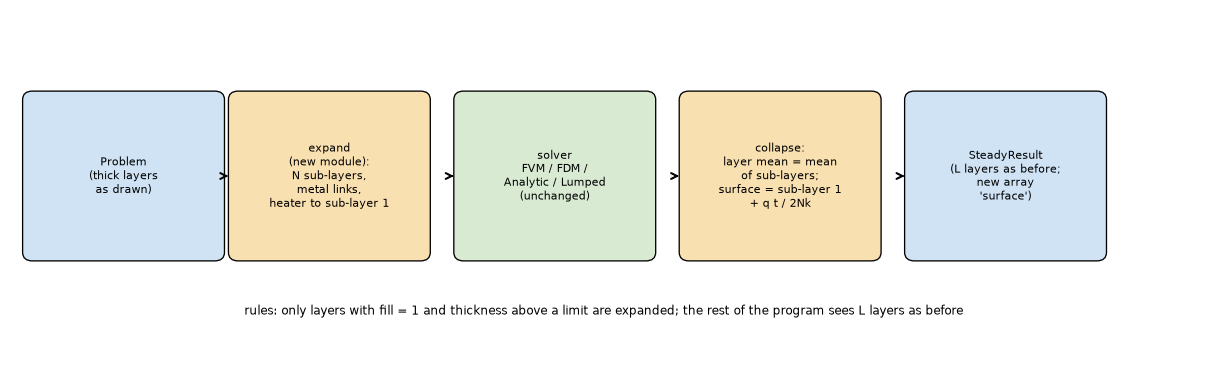
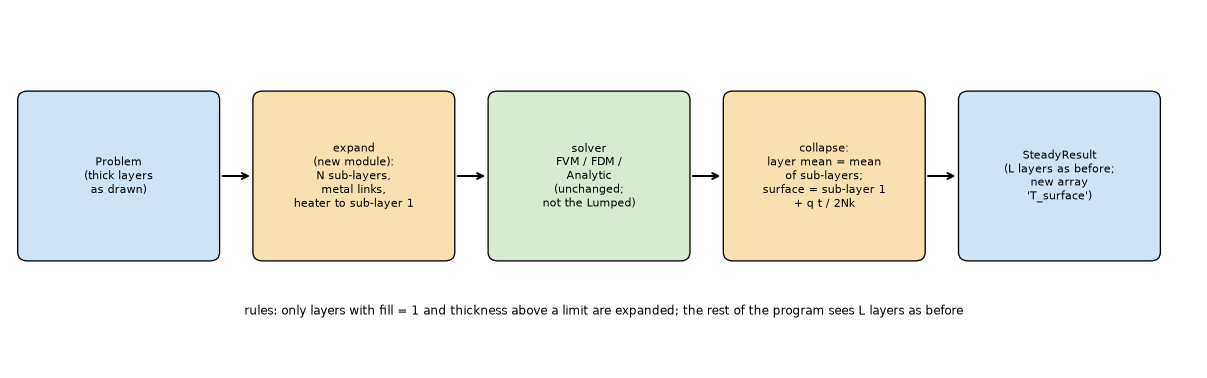
Fix the sweep legend and drop the Lumped from the sub-layer diagram
The legend of figure 4 explained only one conductivity; figure 6 drew the
Lumped among the solvers of option B, which the recommendation excludes.

Claude-Session: https://claude.ai/code/session_01XgeLDd5tWg6CEJL9TQpCpU

Changed region(s): [[0.1533, 0.2328, 0.9809, 0.6984], [0.0, 0.2328, 0.0307, 0.6984], [0.0613, 0.4074, 0.1226, 0.5238]]

diff --git a/research/through-thickness-readout/scripts/make_figures.py b/research/through-thickness-readout/scripts/make_figures.py
@@ -70,7 +70,7 @@ def fig_04():
         for a, col in ((4.0, "#1f77b4"), (10.0, "#2ca02c"), (20.0, "#d62728")):
             r = [x for x in rows if x["k"] == k and x["a_mm"] == a]
             ta = [x["t_mm"] / a for x in r]
-            a1.plot(ta, [x["d3"] / x["bound"] for x in r], mk + "-", color=col, ms=4, lw=0.7, label=f"k {k:.0f}, a {a:.0f} mm" if k == 385.0 else None)
+            a1.plot(ta, [x["d3"] / x["bound"] for x in r], mk + "-", color=col, ms=4, lw=0.7, label=None)
             a2.plot(ta, [x["parabola"] / x["d3"] for x in r], mk + "-", color=col, ms=4, lw=0.7)
     a1.axhline(2.0 / 3.0, color="gray", ls=":")
     a1.text(0.0012, 0.68, "2/3: heat spreads inside the plate", fontsize=7)
@@ -80,14 +80,18 @@ def fig_04():
     a1.set_xlabel("t / a  (thickness over source side)")
     a1.set_ylabel("3D (surface - column mean) / bound q'' t / 2k")
     a1.set_ylim(0, 1.15)
-    a1.legend(fontsize=7, title="colour = source side; marker = k", title_fontsize=7)
+    # Proxy handles: one entry per source side (colour) and one per conductivity (marker), so that every marker of the plot is explained
+    from matplotlib.lines import Line2D
+    handles = [Line2D([], [], color=c, lw=1.5, label=f"a {a:.0f} mm") for a, c in ((4.0, "#1f77b4"), (10.0, "#2ca02c"), (20.0, "#d62728"))]
+    handles += [Line2D([], [], color="gray", marker=m, ls="none", label=f"k {k:.0f} W/mK") for k, m in ((385.0, "o"), (150.0, "s"), (50.0, "^"))]
+    a1.legend(handles=handles, fontsize=7, title="colour = source side; marker = k", title_fontsize=7, ncol=2)
     a2.axhline(1.0, color="k", lw=0.8)
     a2.axvline(0.5, color="gray", ls=":")
     a2.text(0.52, 2.5, "t/a = 0.5", fontsize=7)
     a2.set_xscale("log")
     a2.set_xlabel("t / a")
     a2.set_ylabel("parabolic read-out / 3D difference")
-    a2.set_title("the parabola is exact to 6 % up to t/a = 0.5 and overshoots beyond", fontsize=8.5)
+    a2.set_title("the parabola is within 7 % up to t/a = 0.5 and overshoots beyond", fontsize=8.5)
     fig.tight_layout()
     fig.savefig(os.path.join(FIG, "fig_04_thickness_sweep.png"), dpi=105)
     plt.close(fig)

diff --git a/research/through-thickness-readout/scripts/make_diagrams.py b/research/through-thickness-readout/scripts/make_diagrams.py
@@ -133,13 +133,13 @@ def fig_06_design():
     fig, ax = D.canvas(11.5, 3.6)
     ax.set_xlim(0, 12)
     ax.set_ylim(0, 4)
-    steps = [(0.1, "Problem\n(thick layers\nas drawn)", "#cfe3f5"), (2.2, "expand\n(new module):\nN sub-layers,\nmetal links,\nheater to sub-layer 1", "#f9e0b0"),
-             (4.5, "solver\nFVM / FDM /\nAnalytic / Lumped\n(unchanged)", "#d9ead3"), (6.8, "collapse:\nlayer mean = mean\nof sub-layers;\nsurface = sub-layer 1\n+ q t / 2Nk", "#f9e0b0"),
-             (9.1, "SteadyResult\n(L layers as before;\nnew array\n'surface')", "#cfe3f5")]
+    steps = [(0.05, "Problem\n(thick layers\nas drawn)", "#cfe3f5"), (2.45, "expand\n(new module):\nN sub-layers,\nmetal links,\nheater to sub-layer 1", "#f9e0b0"),
+             (4.85, "solver\nFVM / FDM /\nAnalytic\n(unchanged;\nnot the Lumped)", "#d9ead3"), (7.25, "collapse:\nlayer mean = mean\nof sub-layers;\nsurface = sub-layer 1\n+ q t / 2Nk", "#f9e0b0"),
+             (9.65, "SteadyResult\n(L layers as before;\nnew array\n'T_surface')", "#cfe3f5")]
     for x, text, col in steps:
         D.box(ax, x, 1.2, 2.0, 1.9, text, color=col, size=7.5)
-    for x in (2.1, 4.4, 6.7, 9.0):
-        D.arrow(ax, x, 2.15, x + 0.1, 2.15)
+    for x in (2.05, 4.45, 6.85, 9.25):                           # from the right side of a box to the left side of the next (0.4 apart)
+        D.arrow(ax, x + 0.03, 2.15, x + 0.37, 2.15)
     ax.text(6.0, 0.55, "rules: only layers with fill = 1 and thickness above a limit are expanded; the rest of the program sees L layers as before", ha="center", fontsize=8)
     D.save(fig, os.path.join(FIG, "fig_06_expand_collapse.png"))
 
